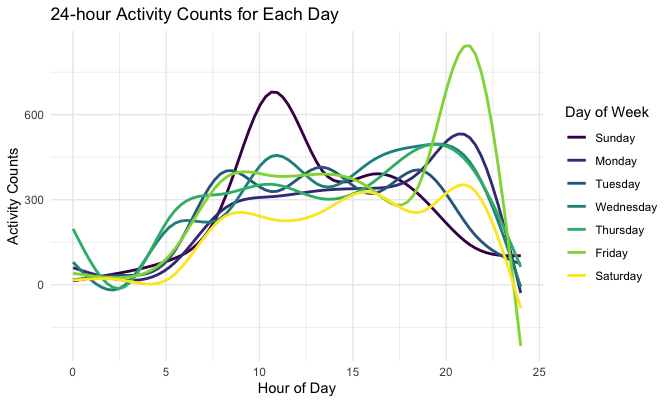
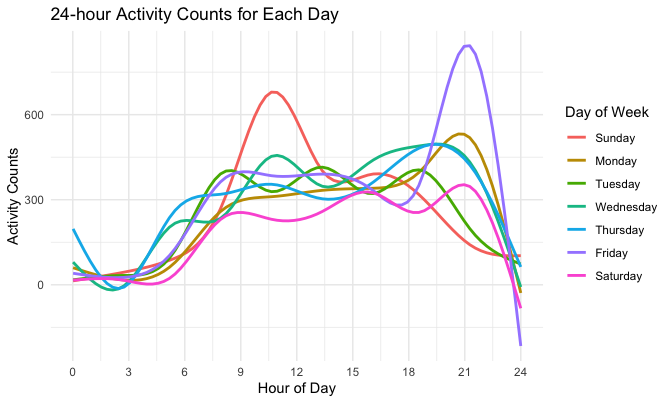
do some data cleaning and making a two-panel plot for mean max temp in Problem 3

diff --git a/p8105_hw3_sg3889.md b/p8105_hw3_sg3889.md
@@ -6,14 +6,6 @@ Siyue Gao
 ``` r
 library(tidyverse)
 library(p8105.datasets)
-
-options(
-  ggplot2.continuous.colour = "viridis",
-  ggplot2.continuous.fill = "viridis"
-)
-
-scale_colour_discrete = scale_colour_viridis_d
-scale_fill_discrete = scale_fill_viridis_d
 ```
 
 # Problem 1
@@ -24,7 +16,7 @@ scale_fill_discrete = scale_fill_viridis_d
 data("instacart")
 ```
 
-## Data Description
+## Data description
 
 The `instacart` dataset contains 1384617 observations of 131209 unique
 users from the “train” evaluation set, with 15 variables, primarily
@@ -361,6 +353,9 @@ accelerometer %>%
     title = "24-hour Activity Counts for Each Day",
     color = "Day of Week"
   ) +
+  scale_x_continuous(
+    breaks = c(0, 3, 6, 9, 12, 15, 18, 21, 24)
+  ) +
   theme_minimal()
 ```
 
@@ -370,6 +365,126 @@ The plot above shows the 24-hour activity counts by hour for each day,
 and the different colors are used to indicate day of the week. We can
 tell that at around Sunday noon and on Friday late evening, the activity
 counts of this participant reach to two peaks, compared to other time
-courses. The activity counts tend to experience a decline after about 10
-pm each day, and there are always periods with lower activity counts
-from 0 to 5 am.
+courses. The activity counts tend to experience an obvious decline after
+about 10 pm each day, and there are always periods with lower activity
+counts from 0 to 5 am.
+
+# Problem 3
+
+## Load and clean the data
+
+Load the data, separate `date` into `year`, `month`, and `day`. Change
+the units of temperature, precipitation, and snowfall into more
+reasonable and readable ones.
+
+``` r
+data("ny_noaa")
+
+ny_noaa = ny_noaa %>%
+  separate(date, into = c("year", "month", "day"), sep = "-") %>% 
+  mutate(
+    year = as.numeric(year),
+    month = as.numeric(month),
+    day = as.numeric(day),
+    prcp = ifelse(!is.na(prcp), prcp / 10, NA_real_),
+    tmax = ifelse(!is.na(tmax), as.numeric(tmax) / 10, NA_real_),
+    tmin = ifelse(!is.na(tmin), as.numeric(tmin) / 10, NA_real_)
+  )
+```
+
+## Data description
+
+``` r
+skimr::skim(ny_noaa)
+```
+
+The `ny_noaa` dataset contains 2595176 observations of 747 unique
+weather station in New York State, with 9 variables, primarily
+describing climate information collected at given specific observation
+dates from 1981 to 2010. Some key variables are recorded in the dataset,
+such as precipitation (mm), snowfall (mm), snow depth (mm), maximum and
+minimum temperature (degrees C). There are 145838 NAs for precipitation,
+381221 NAs for snowfall, 591786 NAs for snow depth, 1134358 NAs for
+maximum temperature, and 1134420 NAs for minimum temperature. These
+missing values are due to the fact that each weather station may collect
+only a subset of these variables.
+
+``` r
+ny_noaa %>% 
+  group_by(snow) %>% 
+  summarise(
+    n_obs = n()
+  ) %>% 
+  mutate(
+    rank = min_rank(desc(n_obs))
+  ) %>% 
+  arrange(rank)
+```
+
+    ## # A tibble: 282 × 3
+    ##     snow   n_obs  rank
+    ##    <int>   <int> <int>
+    ##  1     0 2008508     1
+    ##  2    NA  381221     2
+    ##  3    25   31022     3
+    ##  4    13   23095     4
+    ##  5    51   18274     5
+    ##  6    76   10173     6
+    ##  7     8    9962     7
+    ##  8     5    9748     8
+    ##  9    38    9197     9
+    ## 10     3    8790    10
+    ## # … with 272 more rows
+
+For snowfall, the most commonly observed value is 0. It’s reasonable
+since the snow usually occurs during winter months, which only take up
+1/4 time of a whole year.
+
+## Two-panel plot for average `tmax`
+
+``` r
+ny_noaa %>% 
+  filter(month %in% c(1, 7)) %>% 
+  mutate(
+    month = month.name[month]
+  ) %>% 
+  group_by(id, year, month) %>% 
+  summarise(
+    mean_tmax = mean(tmax, na.rm = TRUE)
+  ) %>% 
+  ggplot(aes(x = year, y = mean_tmax)) +
+  geom_point(alpha = .5) +
+  geom_smooth(color = "red", se = FALSE) +
+  labs(
+    x = "Year",
+    y = "Average Maximum Temperature\n(degrees C)",
+    title = "Average Maximum Temperature in Each Weather Station across Years",
+    caption = "Data are limited to January and July.\nEach spot represent a unique weather station."
+  ) +
+  scale_x_continuous(
+    breaks = c(1980, 1985, 1990, 1995, 2000, 2005, 2010)
+  ) +
+  facet_grid(. ~ month) +
+  theme_minimal() +
+  theme(
+    panel.spacing = unit(1, "lines")
+  )
+```
+
+<img src="p8105_hw3_sg3889_files/figure-gfm/unnamed-chunk-15-1.png" width="90%" />
+
+For average maximum temperature in **January**, there is a continuous
+increase from 1981 to 1990. However, after 1990, it tends to have a
+regular fluctuation at around 0 Celcius degree, with a decrease lasting
+for 3 to 4 years followed by a continuous increase for approximately 4
+to 5 years. There are some obvious outliers just by eyeballing, for
+instance, in 1982 and 2005, we can observe some stations with extremely
+lower mean maximum temperature (and also some in 2008 and 2010), while
+in 2004, there are some higher observations.
+
+For average maximum temperature in **July**, the overall trend is more
+stable. The average maximum temperature is at around 27 celcius degrees
+across years. There are some obvious outliers, for instance, in 1989, we
+can observe a weather station with an extremely lower average maximum
+temperature, and also some lower observations in years such as 1981 to
+1984, 2005, and 2007.
